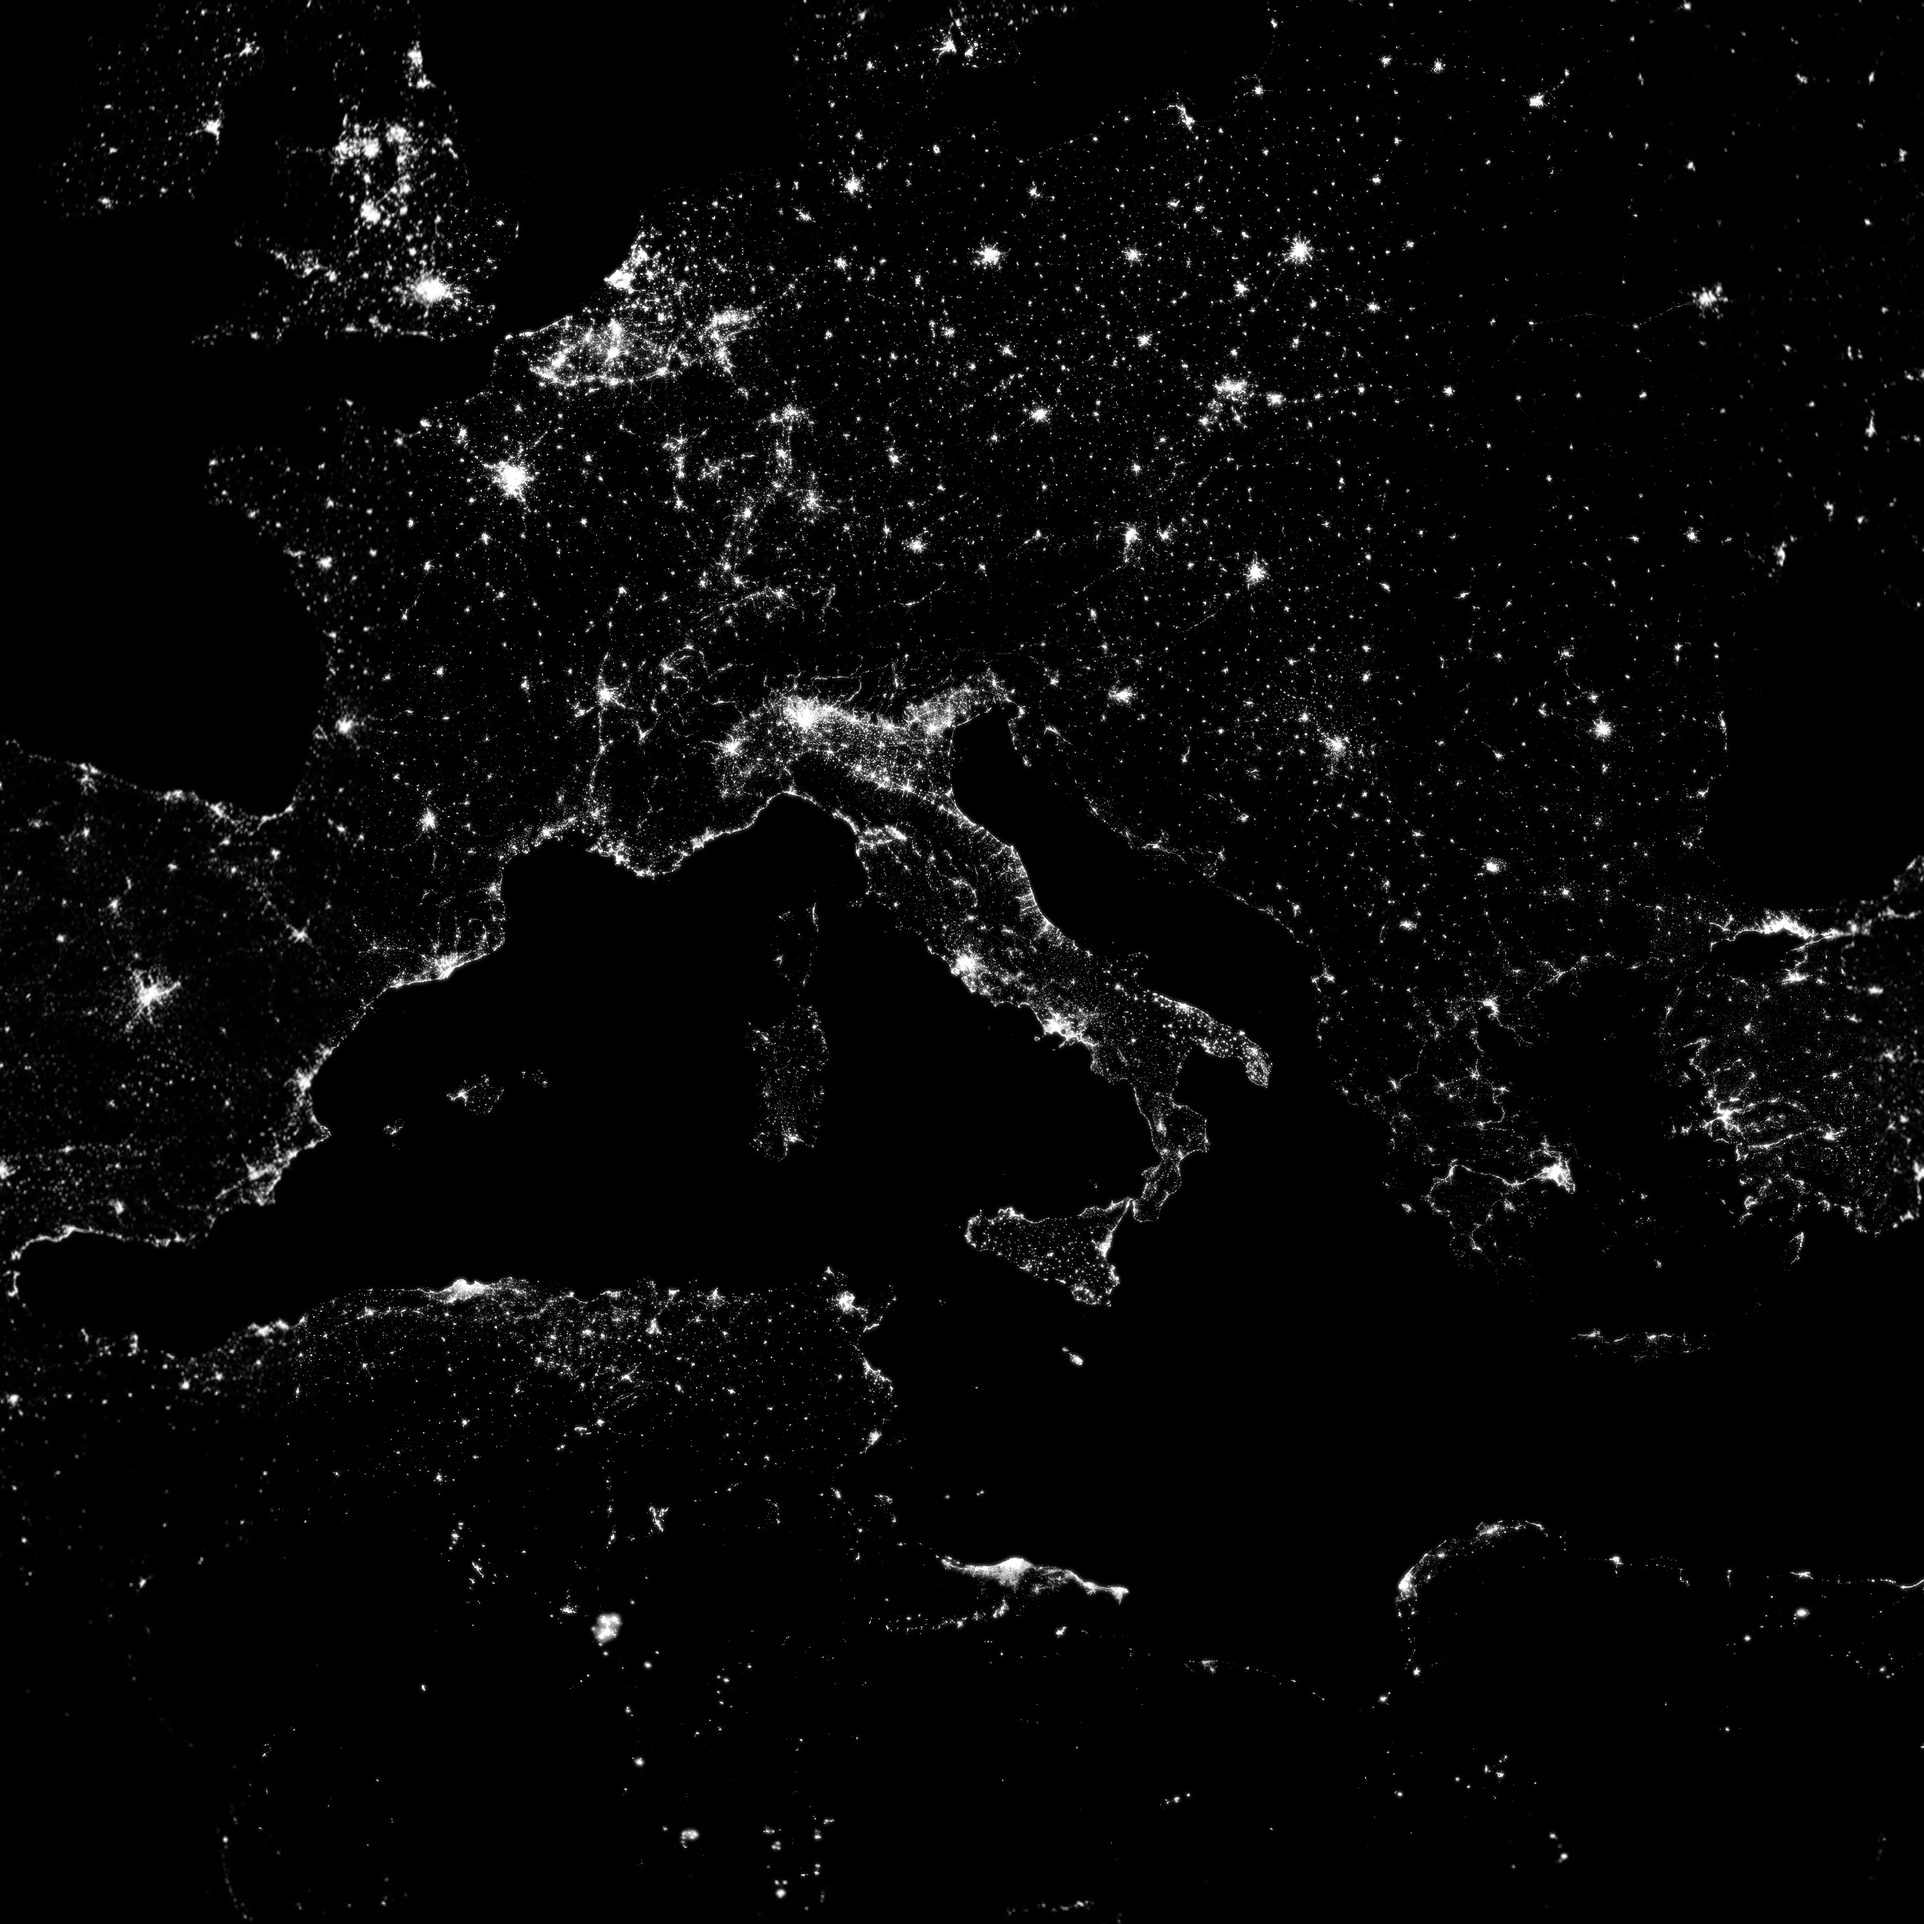
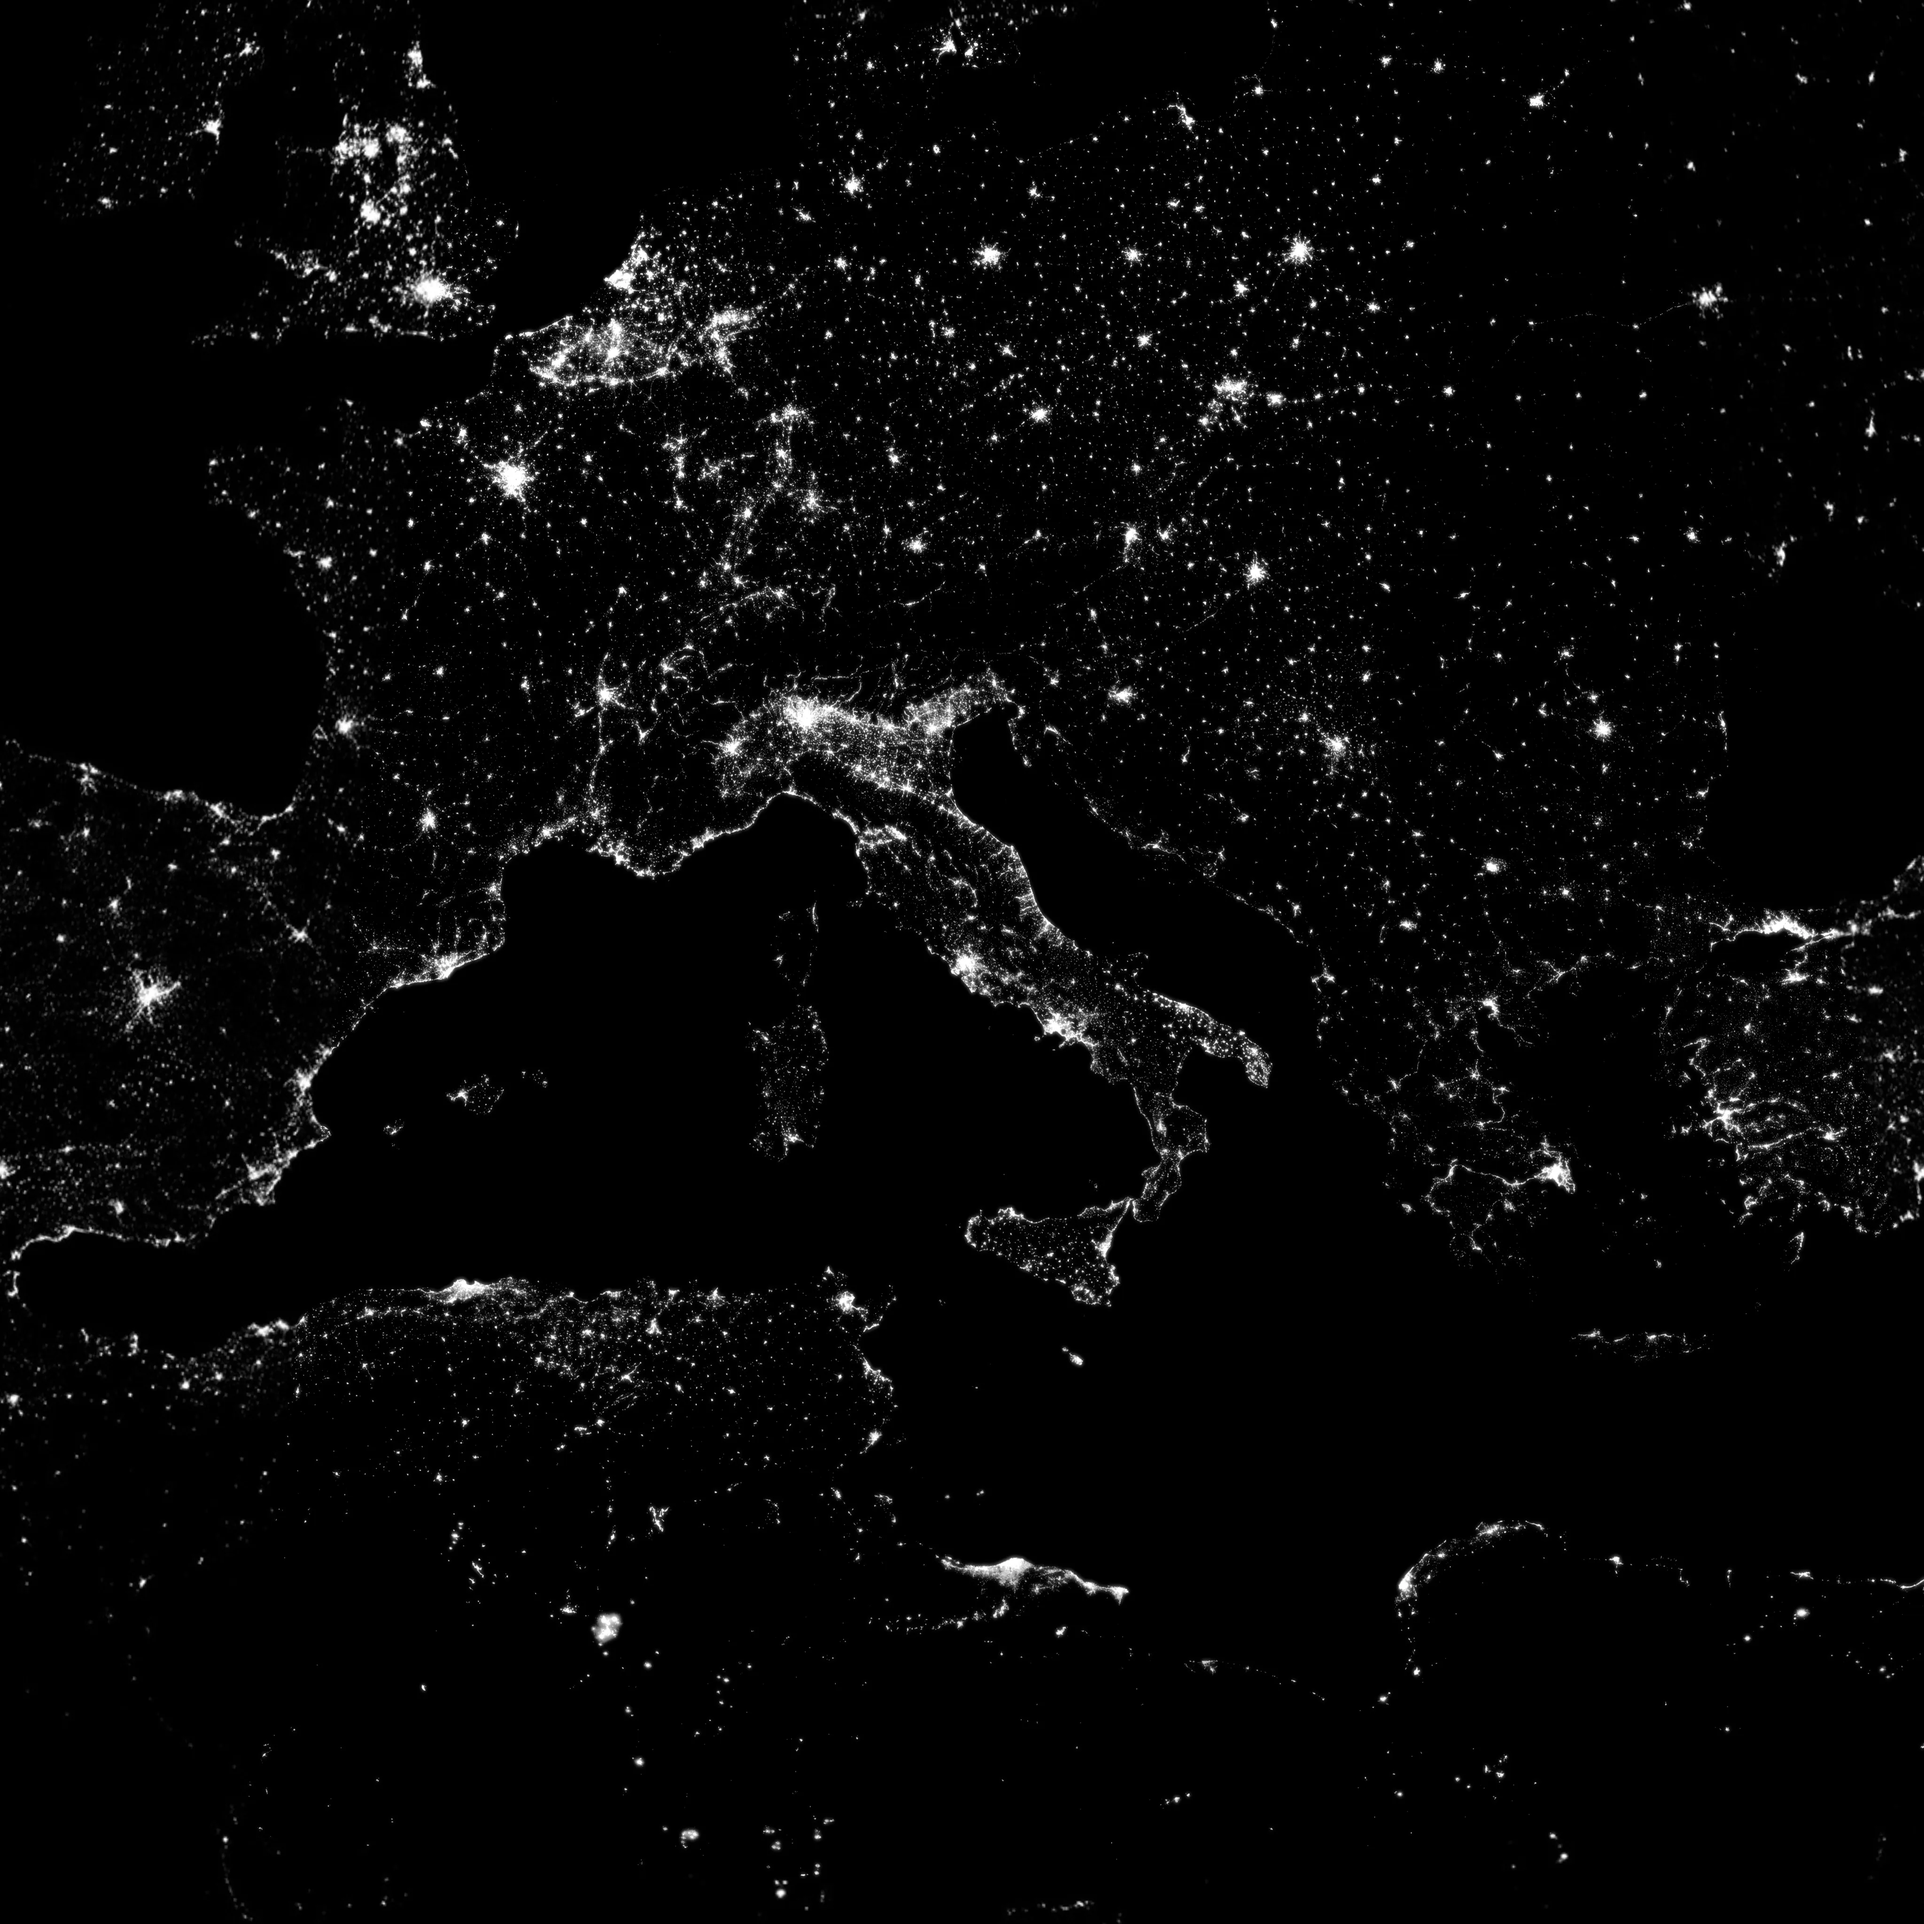
Add the Tuscany scene: NASA night lights, the Arno, Pisa and Virgo
The satellite lights appear only at the scale of the region, so that they
never cover the streets of Florence.

Changed region(s): [[0.375, 0.375, 0.5, 0.4062], [0.3125, 0.1562, 0.3438, 0.1875]]

diff --git a/src/levels/toscana.ts b/src/levels/toscana.ts
@@ -1,0 +1,87 @@
+/**
+ * The stop `toscana`: a hundred kilometres, from Florence to the sea along the valley of
+ * the Arno, at night as a satellite sees it.
+ *
+ * - The lights are NASA Black Marble (public/data/night-toscana.webp), in the same warm
+ *   colour as the streets of `firenze`: the town melts into its own patch of light.
+ * - The land a shade lighter than the sea, a thin cool coastline (Natural Earth), the
+ *   outline of Tuscany just hinted at.
+ * - The Arno from OpenStreetMap, all of it, from Florence to the sea at Pisa; the motorways
+ *   barely there.
+ * - Virgo at Cascina: its two arms, 3 km each, at true size and in their true directions
+ *   (with a minimum width in pixels, so that the L can be seen).
+ * - Light labels: Firenze, Pisa (where Galileo was born), Virgo.
+ *
+ * Units: tens of kilometres. Origin: «Tu sei qui».
+ */
+import { LABELS } from '../content/labels.ts';
+import type { Vec3 } from '../engine/stage.ts';
+import { WATER } from './geo/city.ts';
+import { makeAreas, makeLines, makeNight, setClass } from './geo/layers.ts';
+import { geoSketch } from './geo/level.ts';
+import { loadGeo, loadNight } from './geo/load.ts';
+
+/** The colours of the ground seen from space (also used by `italia`). */
+export const LAND = '#0b0e19';
+export const COAST = '#3d5290';
+/** How much of the satellite lights is shown at exponent `e` (also used by `italia`). */
+export function nightFromAfar(e: number): number {
+  const t = Math.min(1, Math.max(0, (e - 4.45) / 0.55));
+  return t * t * (3 - 2 * t);
+}
+
+export const NIGHT_STYLE = { floor: 0.06, gamma: 1.7, dim: '#a85c27', bright: '#f7cf98', opacity: 0.78 } as const;
+
+export default geoSketch(async (s) => {
+  const [data, night] = await Promise.all([loadGeo('toscana.json'), loadNight('toscana')]);
+  const u = s.unit;
+  // The picture of the lights is the smallest: everything melts away before its edge.
+  const [x0, y0, x1, y1] = night.box;
+  s.mask([x0 + 15e3, y0 + 15e3, x1 - 15e3, y1 - 15e3], 45e3);
+
+  const land = makeAreas(data.areas.land ?? [], u, s.geo);
+  setClass(land.palette, 0, LAND);
+  s.add(land.mesh);
+  const lakes = makeAreas(data.areas.lake ?? [], u, s.geo);
+  setClass(lakes.palette, 0, WATER);
+  s.add(lakes.mesh);
+
+  s.own(night.texture);
+  const lights = makeNight(night.texture, night.box, u, s.geo, NIGHT_STYLE);
+  s.add(lights.mesh);
+  // The lights seen from a satellite belong to the scale of the region: closer, enlarged,
+  // they would cover the streets of `firenze` with a blur.
+  s.every((frame) => lights.setOpacity(NIGHT_STYLE.opacity * nightFromAfar(frame.e)));
+
+  const coast = makeLines(data.lines.coast ?? [], u, { minPx: 1, opacity: 0.75 }, s.geo);
+  setClass(coast.palette, 0, COAST);
+  s.add(coast.mesh);
+  const region = makeLines(data.lines.region ?? [], u, { minPx: 1, opacity: 0.3 }, s.geo);
+  setClass(region.palette, 0, '#8fa3e6');
+  s.add(region.mesh);
+  const roads = makeLines(data.lines.road ?? [], u, { minPx: 0.8, opacity: 0.35 }, s.geo);
+  setClass(roads.palette, 0, '#d08a45');
+  setClass(roads.palette, 1, '#d08a45', 0.7);
+  s.add(roads.mesh);
+  const arno = makeLines(data.lines.arno ?? [], u, { minPx: 1.6, defaultWidth: 60 }, s.geo);
+  setClass(arno.palette, 0, '#2d63b4');
+  s.add(arno.mesh);
+
+  // Virgo: the vertex and the two arms, 3 km each.
+  const p = data.points;
+  const at = (q: readonly [number, number] | undefined): Vec3 => [(q?.[0] ?? 0) / u, (q?.[1] ?? 0) / u, 0];
+  const virgo = p.virgo;
+  if (virgo && p.virgoNorth && p.virgoWest) {
+    const arms = makeLines(
+      [p.virgoNorth, p.virgoWest].map((end) => ({ cls: 0, width: 0, points: new Float64Array([virgo[0], virgo[1], end[0], end[1]]) })),
+      u,
+      { minPx: 2.2 },
+      s.geo,
+    );
+    setClass(arms.palette, 0, '#c4d3ff');
+    s.add(arms.mesh);
+    s.label({ id: 'virgo', text: LABELS.places.virgo, at: at(virgo), kind: 'place', align: 'below', from: 4.4, to: 5.5 });
+  }
+  s.label({ id: 'firenze', text: LABELS.places.florence, at: at(p.firenze), kind: 'place', align: 'right', from: 4.4, to: 5.6 });
+  s.label({ id: 'pisa', text: LABELS.places.pisa, at: at(p.pisa), kind: 'place', align: 'above', from: 4.4, to: 5.5 });
+});

diff --git a/src/levels/registry.ts b/src/levels/registry.ts
@@ -47,7 +47,7 @@ const ACT_ONE: Record<string, Entry> = {
   rifredi: { unit: 100, origin: 'you', load: () => import('./rifredi.ts') }, // 1 (hundred metres)
   quartiere: { unit: 1e3, origin: 'you', load: () => import('./quartiere.ts') }, // 1 km
   firenze: { unit: 1e3, origin: 'you', load: () => import('./firenze.ts') }, // 10 km
-  toscana: { unit: 1e4, origin: 'you' }, // 10 (tens of km)
+  toscana: { unit: 1e4, origin: 'you', load: () => import('./toscana.ts') }, // 10 (tens of km)
   italia: { unit: 1e5, origin: 'you' }, // 12.6 (hundreds of km)
   terra: { unit: 1e6, origin: 'earth', load: solar('terra') }, // 15.8 (thousands of km); Earth radius 6.371
   luna: { unit: 1e8, origin: 'earth', load: solar('luna') }, // 10; the Moon is at 3.844

diff --git a/src/content/labels.ts b/src/content/labels.ts
@@ -43,6 +43,9 @@ export const LABELS = {
     officineGalileo: `ex Officine Galileo`,
     duomo: `Duomo`,
     arno: `Arno`,
+    florence: `Firenze`,
+    pisa: `Pisa`,
+    virgo: `Virgo`,
     sun: `Sole`,
     moon: `Luna`,
     jupiterWithMoons: `Giove e le lune di Galileo`,

diff --git a/CLAUDE.md b/CLAUDE.md
@@ -206,7 +206,7 @@ Stato:
     4. ✅ `rifredi`: strade, marciapiedi e vicoli pubblici (solo in `rifredi.json`), ferrovia, acque, verde, lampioni con il loro alone, finestre come trattini caldi lungo le facciate.
     5. ✅ `quartiere`: vista centrata 330 m a est e 200 m a sud di lei; stazione ed ex Officine Galileo con etichetta e contorno; un test controlla che lei, la stazione e tutta l'area delle Officine stiano nel chilometro.
     6. ✅ `firenze`: vista centrata 800 m a est e 1,7 km a sud; Arno, ponti, bagliore della città, lente sul Duomo (impronta vera da OSM, la cupola dove la pianta è più larga). Screenshot di `partenza`, `rifredi` e `firenze` visti e approvati da Nicola.
-    7. ⬜ `toscana` (Black Marble, costa, Arno, Pisa, Virgo).
+    7. ✅ `toscana`: luci NASA Black Marble (ritaglio a 2048 px, sorgente appena sfumata perché i suoi pixel sono quadrati grossolani), che compaiono solo da 10^4,45 (prima, ingrandite, coprirebbero le strade di `firenze`); terra, mare e costa di Natural Earth; l'Arno intero da OSM; autostrade appena accennate; i bracci di Virgo in scala vera; etichette Firenze, Pisa, Virgo.
     8. ⬜ `italia` (Black Marble, Toscana, Stazione Spaziale).
     9. ⬜ Chiusura: via i segnaposto di M2, «Decisioni» e contratto, verifica completa.
 - **M3, Terra e Sistema Solare**: `terra`, `luna`, `sole`, `giove`, `pianeti-lontani`.
